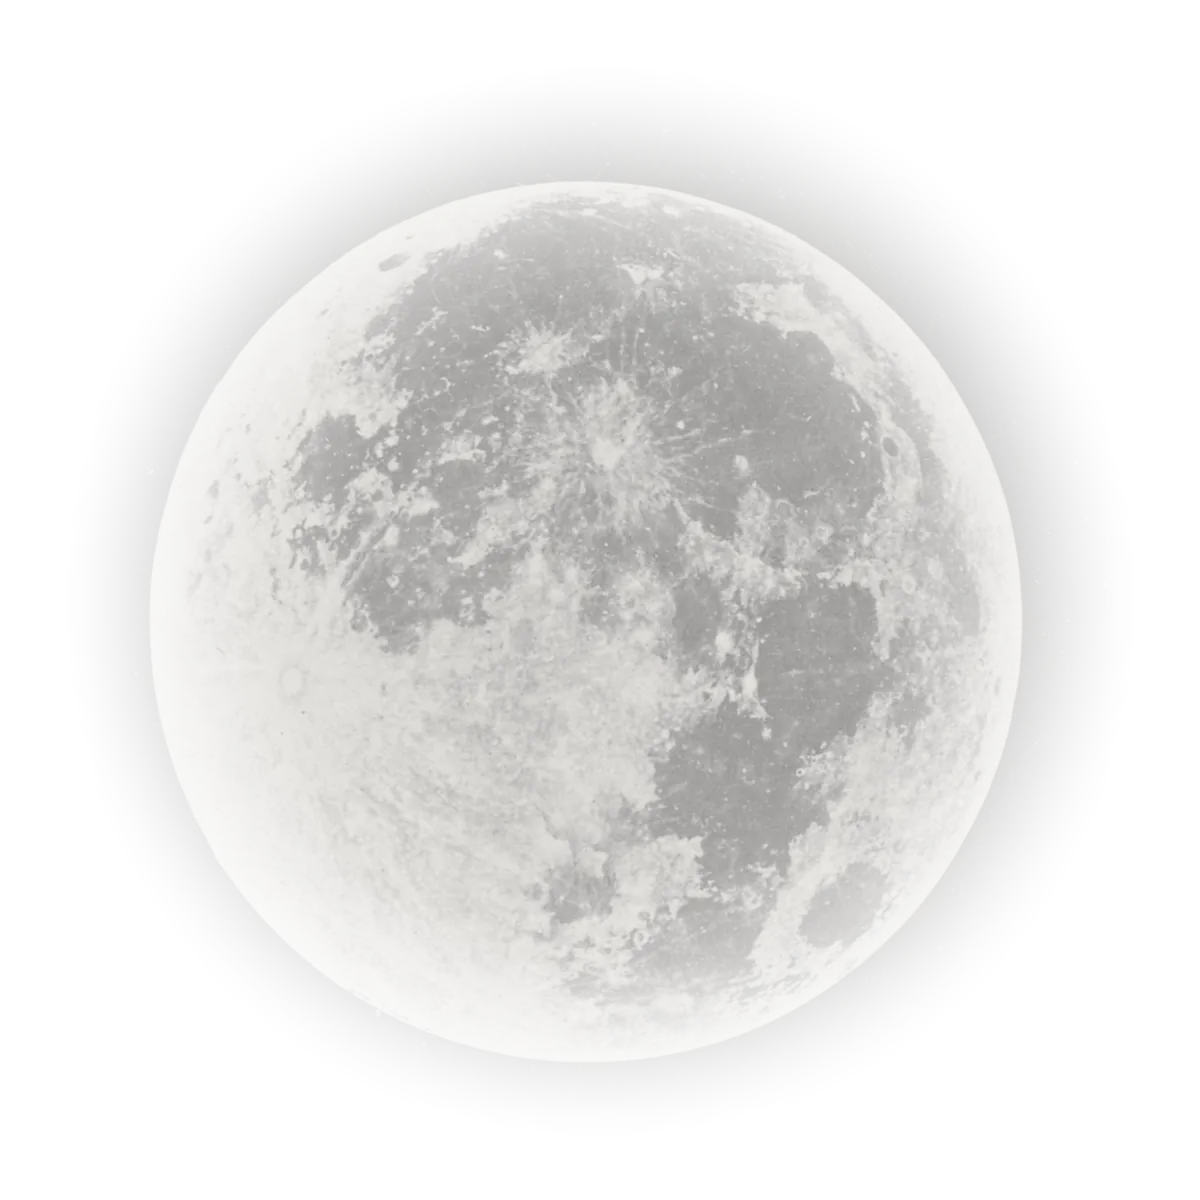
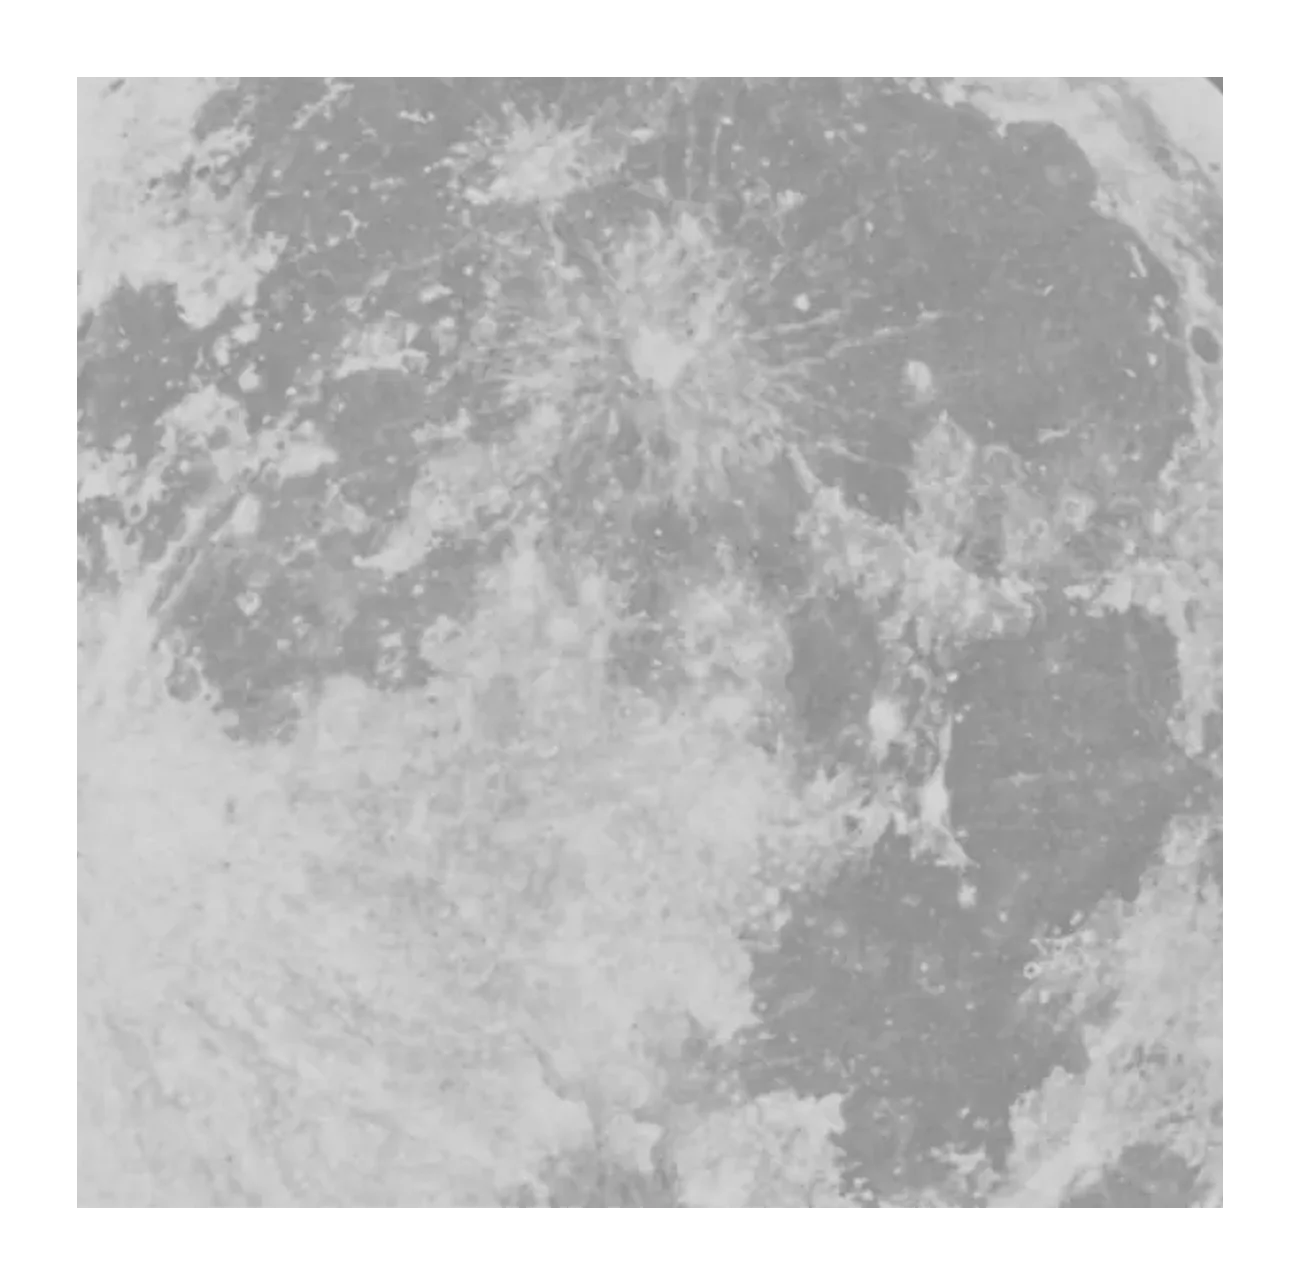
Take the circle off the last two plates, and make it fail next time
night-fountain, under Mother Dreams in Half-light, ended in a soft oval
— a porthole, which is the one shape the folio says a photograph must
not be. lunar-disc, under Brahmanda, had it too. They were the only two
of twenty-one, hand-prepared before prepare-plate.js existed, and the
vignette was baked into the pixels as well as the alpha, so swapping
the alpha alone would have exposed flat grey the tone check would then
have failed on.

Both are cropped to the largest rectangle of real picture inside the
old oval and put back through the house treatment, so they now end on a
feathered rectangle like the other nineteen and get their real edge
from the clip-path tear.

The vignette survived because every measure verify-site.js takes was in
range: it had a feathered edge, its tone was 166, its deviation was 10.
The shape of the falloff was the one thing nothing looked at. It does
now — the house edge is a rectangle inset 6% and blurred, so the corner
of that inset rectangle stays opaque, and an oval erases it. Checked
against the old file before committing: it fails, and says why.

diff --git a/scripts/verify-site.js b/scripts/verify-site.js
@@ -300,6 +300,16 @@ for (const [asset, file] of plates) {
   const share = opaque / (info.width * info.height);
 
   check(share < 0.95, `${asset}: no feathered edge — it will read as a hard rectangle beside twenty soft ones.`);
+
+  // A vignette is not a feather. The house edge is a rectangle inset 6% and
+  // blurred, so the corner of that inset rectangle stays opaque; an oval
+  // vignette erases it. Two plates shipped with the vignette baked into both
+  // their alpha and their pixels and ended in a circle rather than on their
+  // tear — night-fountain under Mother Dreams, and lunar-disc under Brahmanda.
+  // Nothing caught it, because every other measure here was in range.
+  const cornerAlpha = data[(Math.round(info.height * 0.06) * info.width
+    + Math.round(info.width * 0.06)) * 4 + 3];
+  check(cornerAlpha >= 60, `${asset}: the edge falls off as an oval, not the house rectangle — alpha is ${cornerAlpha} at the inset corner. A photograph ends on its tear, not in a circle.`);
   check(mean > 140 && mean < 232, `${asset}: tone sits at ${mean.toFixed(0)}, outside the folio's range; it has probably not been through the house treatment.`);
   check(deviation > 3, `${asset}: almost no tonal variation (${deviation.toFixed(0)}); the plate is effectively blank.`);
   check(deviation < 45, `${asset}: contrast of ${deviation.toFixed(0)} will shout against the rest.`);

diff --git a/public/collage/README.md b/public/collage/README.md
@@ -48,6 +48,10 @@ illustrates the poem by naming its objects back to it.
 - `night-fountain.webp` — Joseph-Philibert Girault de Prangey, Fountain, Place du Château d’Eau, Paris, 1841–42.
   The Metropolitan Museum of Art, object 726484, public domain (Open Access).
   https://www.metmuseum.org/art/collection/search/726484
+  Re-cut in September 2026: the plate had a soft oval vignette baked into both
+  its alpha and its pixels, so it ended in a circle rather than on its tear.
+  Cropped to the largest rectangle of real picture inside that oval
+  (328,180,648×652 of the old file) and put back through prepare-plate.js.
   Used under *Mother Dreams in Half-light*.
 
 - `cliffs-bay.webp` — John Dillwyn Llewelyn, 3 Cliffs Bay with a Wave, 1853–56.
@@ -146,7 +150,9 @@ illustrates the poem by naming its objects back to it.
 - `lunar-disc.webp` — Lewis Morris Rutherfurd, *Full Moon*, 1871. Met object
   813902, public domain. https://www.metmuseum.org/art/collection/search/813902
   A single half of the stereograph, lifted well off black so the field around
-  the disc reads as haze on paper. Used under *Brahmanda*.
+  the disc reads as haze on paper. Re-cut in September 2026 for the same oval
+  vignette as night-fountain, cropped to 264,268,676×668 of the old file.
+  Used under *Brahmanda*.
 
 ## Drawn fragments
 
